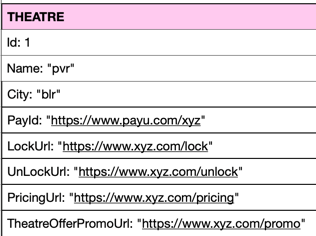
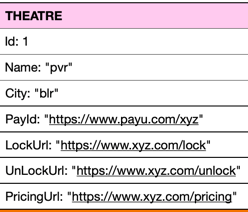
Adding more description related to offer management

diff --git a/src/main/java/xyx/platform/services/OfferHandler.java b/src/main/java/xyx/platform/services/OfferHandler.java
@@ -4,7 +4,10 @@ import io.github.resilience4j.retry.annotation.Retry;
 import lombok.extern.slf4j.Slf4j;
 import org.springframework.beans.factory.annotation.Autowired;
 import org.springframework.stereotype.Service;
+import org.springframework.web.client.RestTemplate;
+import xyx.platform.domain.entity.mongo.CouponDetail;
 import xyx.platform.repository.h2.TheatreRepo;
+import xyx.platform.repository.mongo.OfferRepo;
 import xyx.platform.resilience.Fallback;
 
 import java.util.List;
@@ -16,27 +19,37 @@ public class OfferHandler {
     @Autowired
     private TheatreRepo theatreRepo;
     @Autowired
+    private OfferRepo offerRepo;
+    @Autowired
     private Fallback fallback;
 
     @Retry(name = "fetchRetry", fallbackMethod = "fallback")
-    public Double getOfferPrice(Integer theatreId, List<String> seatIds, String showTime, String coupon) {
-        Double theatreOfferPrice = getTheatreOfferPrice(theatreId, seatIds, showTime, coupon);
-        Double xyzOfferPrice = getXyzDiscount(theatreId, seatIds, showTime, coupon);
-        return theatreOfferPrice + xyzOfferPrice;
+    public String validateCoupon(Integer theatreId, List<String> seatIds, String showTime, String coupon) {
+        CouponDetail couponDetail = offerRepo.findById(coupon).get();
+        String url = couponDetail.getValidationUrl();
+        url = formatUrl(theatreId, seatIds, showTime, couponDetail, url);
+
+        RestTemplate restTemplate = new RestTemplate();
+        return restTemplate.getForObject(url, String.class);
     }
-    private Double getTheatreOfferPrice(Integer theatreId, List<String> seatIds, String showTime, String coupon) {
 
-        String promoUrl = theatreRepo.findTheatreOfferPromoUrlById(theatreId);
-        //invoke promo url of theatre to get offer price
-        log.info("The promo pricing details: {}", "TBD");
+    @Retry(name = "fetchRetry", fallbackMethod = "fallback")
+    public Double applyCouponAndGetDiscount(Integer theatreId, List<String> seatIds, String showTime, String coupon, Double price) {
+        CouponDetail couponDetail = offerRepo.findById(coupon).get();
+        String url = couponDetail.getOfferUrl();
+        url = formatUrl(theatreId, seatIds, showTime, couponDetail, url);
 
-        return null;
+        RestTemplate restTemplate = new RestTemplate();
+        return restTemplate.getForObject(url, Double.class);
     }
-    private Double getXyzDiscount(Integer theatreId, List<String> seatIds, String showTime, String coupon) {
 
-        log.info("The pricing details: {}", coupon);
-
-        return null;
+    private String formatUrl(Integer theatreId, List<String> seatIds, String showTime, CouponDetail couponDetail, String url) {
+        String params = couponDetail.getUrlParams();
+        params = params.concat("?");
+        if(params.contains("theatreId")) url = url.concat("theatreId=").concat(String.valueOf(theatreId));
+        if(params.contains("showTime")) url = url.concat("showTime=").concat(showTime);
+        if(params.contains("seatIds")) url = url.concat("seatIds=").concat(String.valueOf(seatIds));
+        return url;
     }
     private List<String> fallback(String seatType, String promoCode, Throwable e) {
 

diff --git a/src/main/java/xyx/platform/api/customer/OfferManagement.java b/src/main/java/xyx/platform/api/customer/OfferManagement.java
@@ -17,13 +17,22 @@ import java.util.List;
 public class OfferManagement {
     @Autowired
     private OfferHandler offerHandler;
-    @GetMapping(value = "/apply_offer")
-    public ResponseEntity<Double> calculateOffer(@RequestParam Integer theatreId, @RequestParam List<String> seatIds, @RequestParam String showTime, @RequestParam String coupon) {
+    @GetMapping(value = "/apply_coupon")
+    public ResponseEntity<Double> applyCouponAndCalculateOffer(@RequestParam Integer theatreId, @RequestParam List<String> seatIds, @RequestParam String showTime, @RequestParam String coupon, @RequestParam Double price) {
 
-        offerHandler.getOfferPrice(theatreId, seatIds, showTime, coupon);
+        final Double priceAfterOffer = offerHandler.applyCouponAndGetDiscount(theatreId, seatIds, showTime, coupon, price);
 
-        log.info("The temperature date details: {}", "seatHandler");
+        log.info("Offer Price: {}", priceAfterOffer);
 
-        return ResponseEntity.ok(0.0);
+        return ResponseEntity.ok(priceAfterOffer);
+    }
+    @GetMapping(value = "/validate_coupon")
+    public ResponseEntity<String> validateCoupon(@RequestParam Integer theatreId, @RequestParam List<String> seatIds, @RequestParam String showTime, @RequestParam String coupon) {
+
+        String isValid = offerHandler.validateCoupon(theatreId, seatIds, showTime, coupon);
+
+        log.info("Is coupon {} valid: {}", coupon, isValid);
+
+        return ResponseEntity.ok(isValid);
     }
 }

diff --git a/src/main/java/xyx/platform/api/partner/OfferPush.java b/src/main/java/xyx/platform/api/partner/OfferPush.java
@@ -1,0 +1,29 @@
+package xyx.platform.api.partner;
+
+import lombok.extern.slf4j.Slf4j;
+import org.springframework.beans.factory.annotation.Autowired;
+import org.springframework.http.ResponseEntity;
+import org.springframework.web.bind.annotation.PostMapping;
+import org.springframework.web.bind.annotation.RequestBody;
+import org.springframework.web.bind.annotation.RequestMapping;
+import org.springframework.web.bind.annotation.RestController;
+import xyx.platform.domain.entity.mongo.CouponDetail;
+import xyx.platform.repository.mongo.OfferRepo;
+
+@RestController
+@RequestMapping(value = "/push")
+@Slf4j
+public class OfferPush {
+
+    @Autowired
+    private OfferRepo offerRepo;
+
+    @PostMapping(value = "/coupon")
+    public ResponseEntity<CouponDetail> theatre(@RequestBody CouponDetail couponDetail) {
+
+
+        log.info("Onboarding coupon: {}", couponDetail);
+
+        return ResponseEntity.ok(offerRepo.save(couponDetail));
+    }
+}

diff --git a/src/main/java/xyx/platform/domain/entity/mongo/CouponDetail.java b/src/main/java/xyx/platform/domain/entity/mongo/CouponDetail.java
@@ -1,0 +1,22 @@
+package xyx.platform.domain.entity.mongo;
+
+import lombok.AllArgsConstructor;
+import lombok.Data;
+import lombok.NoArgsConstructor;
+import lombok.ToString;
+import org.springframework.data.annotation.Id;
+import org.springframework.data.mongodb.core.mapping.Document;
+
+@Data
+@NoArgsConstructor
+@AllArgsConstructor
+@ToString
+@Document(collection = "CouponDetail")
+public class CouponDetail {
+    @Id
+    private String coupon;
+    private Integer theatreId;
+    private String offerUrl;
+    private String validationUrl;
+    private String urlParams;
+}

diff --git a/src/main/java/xyx/platform/services/BookingHandler.java b/src/main/java/xyx/platform/services/BookingHandler.java
@@ -15,7 +15,7 @@ public class BookingHandler {
     private TheatreRepo theatreRepo;
 
     public void book(BookingDetail booking) {
-        //call payment api and get payment ref
+        //call payU payment api and get payment ref after payment is successful.
         String payId = theatreRepo.findPayIdById(booking.getTheatreId());
         String payRef = payUsingPayid(payId);
         booking.setPayRef(payRef);

diff --git a/src/main/java/xyx/platform/repository/mongo/SeatRepo.java b/src/main/java/xyx/platform/repository/mongo/SeatRepo.java
@@ -4,6 +4,5 @@ import org.springframework.data.mongodb.repository.MongoRepository;
 import xyx.platform.domain.entity.mongo.Seat;
 
 public interface SeatRepo extends MongoRepository<Seat, String> {
-//    List<Seat> findAllSeatsByCity(String city, List<String> statuses);
 
 }

diff --git a/src/main/java/xyx/platform/repository/mongo/OfferRepo.java b/src/main/java/xyx/platform/repository/mongo/OfferRepo.java
@@ -1,0 +1,8 @@
+package xyx.platform.repository.mongo;
+
+import org.springframework.data.mongodb.repository.MongoRepository;
+import xyx.platform.domain.entity.mongo.CouponDetail;
+
+public interface OfferRepo extends MongoRepository<CouponDetail, String> {
+
+}

diff --git a/src/main/java/xyx/platform/repository/h2/TheatreRepo.java b/src/main/java/xyx/platform/repository/h2/TheatreRepo.java
@@ -6,5 +6,4 @@ import xyx.platform.domain.entity.h2.Theatre;
 @Repository
 public interface TheatreRepo extends JpaRepository<Theatre, String> {
     String findPayIdById(Integer id);
-    String findTheatreOfferPromoUrlById(Integer id);
 }

diff --git a/src/main/java/xyx/platform/domain/entity/h2/Theatre.java b/src/main/java/xyx/platform/domain/entity/h2/Theatre.java
@@ -25,6 +25,5 @@ public class Theatre {
     private String lockUrl;
     private String unLockUrl;
     private String pricingUrl;
-    private String theatreOfferPromoUrl;
 
 }

diff --git a/README.md b/README.md
@@ -25,21 +25,28 @@
 
 ![img_10.png](readme/img_10.png)
 
+* Offer Management (Validation):
+
+![img.png](readme/img_20.png)
+
+* Offer Management (Apply Coupon):
+
+![img_1.png](readme/img_21.png)
+
 * Seat Locking: <<-To Be Done->>
 * Seat Releasing: <<-To Be Done->>
 * Ticket Cancellation: <<-To Be Done->>
-* Offer Management: <<-To Be Done->>
 
 **Data Model**
 ----------
 ----------
 * Relational:
 
-![img_1.png](readme/img_1.png)  ![img.png](readme/img_18.png)  ![img_3.png](readme/img_3.png)
+![img.png](readme/img_1.png)  ![img.png](readme/img_18.png)  ![img_3.png](readme/img_3.png)
 
 * No-Sql:
 
-![img_4.png](readme/img_4.png)  ![img_5.png](readme/img_5.png)  ![img_6.png](readme/img_6.png)  ![img_7.png](readme/img_7.png)
+![img_4.png](readme/img_4.png)  ![img_5.png](readme/img_5.png)  ![img_6.png](readme/img_6.png)  ![img_7.png](readme/img_7.png)  ![img.png](readme/img_19.png)
 
 **Major Data Flow**
 ---------------------
@@ -84,8 +91,10 @@
     * @GetMapping(value = "/release")
       public ResponseEntity<Boolean> releaseSeat(@RequestParam String theatre, @RequestParam String seat, @RequestParam String showTime)
   * Offer Management:
+    * @GetMapping(value = "/validate_coupon")
+      public ResponseEntity<String> validateCoupon(@RequestParam Integer theatreId, @RequestParam List<String> seatIds, @RequestParam String showTime, @RequestParam String coupon)
     * @GetMapping(value = "/apply_offer")
-    public ResponseEntity<Double> calculateOffer(@RequestParam Integer theatreId, @RequestParam List<String> seatIds, @RequestParam String showTime, @RequestParam String coupon)
+      public ResponseEntity<Double> calculateOffer(@RequestParam Integer theatreId, @RequestParam List<String> seatIds, @RequestParam String showTime, @RequestParam String coupon, @RequestParam Double price)
   * Ticket Cancellation: <<-To Be Done->>
 
 **Database Design**
@@ -120,8 +129,7 @@ Logical Architecture
 Reference Architecture
 ----------------------
 * The following is the basic reference architecture that has been used to come up with the System Architecture of the given problem statement.
-<img width="973" height="442" alt="image" src="https://github.com/user-attachments/assets/6364f21c-f198-488b-b85e-2dbb319a4e42" />
-                      * [Reference: https://learn.microsoft.com/en-us/azure/architecture/microservices/design/patterns]
+<img width="973" height="442" alt="image" src="https://github.com/user-attachments/assets/6364f21c-f198-488b-b85e-2dbb319a4e42" /> [Reference: https://learn.microsoft.com/en-us/azure/architecture/microservices/design/patterns]
 
 * The following is the generic reference architecture that will be used to design the internal
 components wherever applicable
@@ -169,6 +177,15 @@ High Level Availability Details
   * Fallback after retry exhausted
   * Long-running tasks to be monitored and purged after the cut-oﬀ time. This to be retried at any later schedule.
 
+High Level Scaling Details
+---------------------------
+  * Cloud manages Scheduler Instance Availability
+  * Cloud manages the availability of topics
+  * Making use of Cloud Auto Scaling facilities
+  * The load will not be high all the time.
+  * When the load increases on occasional times, the Autoscaling facility of the cloud will automatically provision new instances of scheduler based on the auto-scaling configuration
+  * When the load decreases, the unused instances will be purged.
+
 High Level Security Details
 -------------------------------
   * Follow OWASP-10 principles including the below.
@@ -176,12 +193,36 @@ High Level Security Details
   * Use encryption or decryption wherever applicable.
   * Use Key Vault or wallets like Oracle Wallets to securely store passwords.
   * Use OAuth to secure Service to Service communications.
-  * Use 2 Factor Authentication whenever interacting with Customers including Theatres or Ticket buyers.
+  * Use 2-Factor Authentication whenever interacting with Customers including Theatres or Ticket buyers.
 
 High level Storage Details
 --------------------------
   * Storage for CICD build and deploy.
   * Storage for Database, Messaging Infrastructure
-  * Storage for API Instances Repository
+  * Storage for Running APIs
+  * Storage for Application Logs
+
+Approximate Storage Estimations
+-------------------------------
+* Approximate Request Load
+ 
+| API              | Size of 1 Request |
+|------------------|-------------------|
+| Theatre Onboard  | 4 - 8 kb          |
+| Movie Publish    | 20 - 30 kb        |
+| Offer Push       | 4 - 8 kb          |
+| Booking          | 10 - 15 kb        |
+| Handle Seat      | 4 - 5 kb          |
+| Offer Management | 4 - 5 kb          |
+| Pricing          | 4 - 5 kb          |
+| Shows            | 20 - 30 kb        |
+
+* Approximate Runtime Load
+  * Each Platform instance: 300-400 mb
+  * Each Schedule-Future Object: 30-70 mb
+  * Each Running Task: 10-20 mb
+  * Data Handled by each Running API Instance: 150 kb
+  * Average Size of each row in a table: 20 kb
+
 
 
